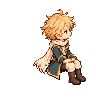
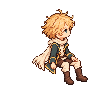
art: relax Prince Q1 seated posture

Changed region(s): [[0.3125, 0.09, 0.9375, 0.87]]

diff --git a/Production/Validation/review-prince-seated.html b/Production/Validation/review-prince-seated.html
@@ -1,0 +1,24 @@
+<!doctype html>
+<html lang="en"><meta charset="utf-8"><meta name="viewport" content="width=device-width,initial-scale=1">
+<title>Little Prince — seated pose correction</title>
+<style>
+body{margin:0;background:#191d20;color:#e6ded0;font:16px/1.6 system-ui,sans-serif}main{max-width:1200px;margin:auto;padding:32px}h1{font-size:26px}h2{font-size:19px}p{max-width:850px;color:#c9c3b8}section{display:grid;grid-template-columns:1fr 1fr;gap:24px}figure{margin:0;padding:20px;background:#292b2b;border-radius:8px}figcaption{margin-bottom:12px}img{max-width:100%;height:auto}.sprite{width:384px;image-rendering:pixelated;display:block;margin:auto}.native{display:block;width:100%}a{color:#dfc78e}.note{font-size:14px}@media(max-width:650px){section{grid-template-columns:1fr}}
+</style><main>
+<h1>Little Prince — seated pose correction</h1>
+<p>Quiet, thoughtful stool-perch: separate relaxed hands, a small stagger between knees and boots, and a less rigid shoulder line. Same character, costume and side-quarter direction.</p>
+<p class="note">Only the Q1 seated texture changes. Camera, character scale, stool, contact anchors, counter geometry and ACT 1 logic are retained. Final pose feel remains for owner review.</p>
+<section>
+<figure><figcaption>Before · original production sprite</figcaption><img class="sprite" src="../SourceArt/PrinceSeatedCorrection/Before.png" alt="Previous seated Prince with close knees and hands together"></figure>
+<figure><figcaption>After · corrected production sprite</figcaption><img class="sprite" src="../Unity/Assets/Surlhwa/Q1Polish/PrinceSideQuarter.png" alt="Prince seated with separate hands and staggered boots"></figure>
+</section>
+<p class="note">Sprites above are displayed at 4× with nearest-neighbor scaling. Both have the original 96×100 transparent frame and 76-pixel silhouette height.</p>
+<h2>Native Q1 grounding view · same camera and stool</h2>
+<section>
+<figure><figcaption>Before · retained Q1 evidence</figcaption><a href="Evidence/q1-final-prince-04/Q1_Prince_Grounding_1920.png"><img class="native" src="Evidence/q1-final-prince-04/Q1_Prince_Grounding_1920.png" alt="Previous Q1 seated pose at stool"></a></figure>
+<figure><figcaption>After · rebuilt Player</figcaption><a href="Evidence/q1-prince-seated-correction/Q1_Prince_Grounding_1920.png"><img class="native" src="Evidence/q1-prince-seated-correction/Q1_Prince_Grounding_1920.png" alt="Corrected Q1 seated pose at same stool"></a></figure>
+</section>
+<h2>Normal Q1 composition</h2>
+<a href="Evidence/q1-prince-seated-correction/Q1_Prince_Composition_1920.png"><img class="native" src="Evidence/q1-prince-seated-correction/Q1_Prince_Composition_1920.png" alt="Prince and bartender in the unchanged Q1 bar composition"></a>
+<p class="note">Native Player captures at 720p and 1080p were inspected. Unity build: zero errors/warnings. Existing Q1 tests: 7/7. Bounded Prince service/save/Continue checks: 16 passed. Click a native render to inspect the full-resolution image. This is pose review, not a new ACT 1 sign-off.</p>
+<p><a href="PRINCE_SEATED_CORRECTION.md">Validation and review notes</a> · <a href="../SourceArt/PrinceSeatedCorrection/PROVENANCE.md">Source and exact generation prompt</a></p>
+</main></html>

diff --git a/Production/Tools/prepare_prince_seated_correction.py b/Production/Tools/prepare_prince_seated_correction.py
@@ -1,0 +1,29 @@
+"""Import the owner-requested pose using the existing Q1 normalization contract."""
+from pathlib import Path
+from PIL import Image
+import hashlib
+import json
+
+ROOT = Path(__file__).resolve().parents[1]
+SOURCE = ROOT / 'SourceArt/PrinceSeatedCorrection'
+source = SOURCE / 'PrinceSeatedSource.png'
+target = ROOT / 'Unity/Assets/Surlhwa/Q1Polish/PrinceSideQuarter.png'
+im = Image.open(source).convert('RGBA')
+bounds = im.getchannel('A').point(lambda a: 255 if a > 128 else 0).getbbox()
+crop = im.crop(bounds)
+width = round(crop.width * 76 / crop.height)
+normalized = crop.resize((width, 76), Image.Resampling.NEAREST)
+frame = Image.new('RGBA', (96, 100))
+position = (round(59.5 - width / 2), 9)
+frame.paste(normalized, position)
+frame.save(target)
+(SOURCE / 'import.json').write_text(json.dumps(dict(
+    classification='PRINCE_SEATED_POSE_OWNER_REVIEW',
+    source=source.relative_to(ROOT).as_posix(),
+    sourceSha256=hashlib.sha256(source.read_bytes()).hexdigest(),
+    alphaBounds=bounds, normalizedSize=normalized.size, pasteAt=position,
+    target=target.relative_to(ROOT).as_posix(),
+    sha256=hashlib.sha256(target.read_bytes()).hexdigest(),
+    method='Existing Q1 alpha crop and nearest-neighbor import; 76px height, 96x100 canvas, same center and bottom. No scene or mesh changes.'
+), indent=2) + '\n', encoding='utf-8')
+print('Prince seated correction imported:', normalized.size, position)

diff --git a/Production/Validation/PRINCE_SEATED_CORRECTION.md b/Production/Validation/PRINCE_SEATED_CORRECTION.md
@@ -1,0 +1,57 @@
+# Little Prince seated pose correction — 2026-10-27
+
+Status: **TECHNICAL_CHECKS_PASS / HUMAN_SIGNOFF_REQUIRED**.
+
+[Before/after review](review-prince-seated.html). Bounded owner feedback: the
+previous seated Prince read too prim, with close knees/boots and folded hands.
+The revised sprite separates the hands (one on the thigh, one beside the hip),
+staggers the knees/boots modestly and relaxes the shoulder line. Identity, costume,
+youthful quiet expression and screen-right quarter-facing style remain the target.
+Final naturalness and emotional reading require owner approval.
+
+## Scope and preservation
+
+Only runtime asset changed: `Unity/Assets/Surlhwa/Q1Polish/PrinceSideQuarter.png`.
+The existing Q1 material consumes it with the same GUID and importer settings.
+96×100 transparent canvas, 76px opaque silhouette height, top/bottom alignment and
+normalization center are retained. Width changes from 53px to 56px for the relaxed
+posture. Original source, sprite copy and historical evidence are retained.
+
+No C# gameplay/presentation logic, scene, prefab, mesh, material, camera, scale,
+stool, contact anchor, counter geometry, standing/walking frame, focused-view art,
+ACT 1 content, save identity or progression changes. User's pre-existing edit in
+`review-slice.html` is excluded. The active Q1 Player was rebuilt; historical
+Players/evidence remain unchanged.
+
+## Validation
+
+- Unity 6000.3.7f1 Q1 build succeeded: **0 errors, 0 warnings**.
+- Existing `Surlhwa.SpatialTests.Q1ProductionTests`: **7/7 passed**, including
+  camera/scale/contact anchors and depth-writing seated material.
+- Actual rebuilt Q1 Player, isolated earned Prince checkpoint: **16 checks
+  passed, zero errors**, exit 0. Covers selected Prince, bindings, Codex state,
+  focused preparation/service, return to Q1, served liquid, save reload and Continue.
+- Native 720p/1080p seated/composition/grounding captures were inspected. Same
+  camera, character mesh viewport and bar viewport values as retained Q1 captures.
+  The corrected pose stays at the existing stool with readable separated hands and
+  boots. This visual inspection is not owner aesthetic acceptance.
+- Source/Player inventory was identical before and after capture (1,271 files).
+  Import rerun is byte-reproducible. Runtime tracked diff contains only the PNG;
+  no scene/prefab serialization churn. `git diff --check` passed.
+
+First sandboxed Unity attempt failed during local Package Manager IPC startup
+before tests. The authorized unrestricted retry passed; no outstanding validation
+debt from that attempt. This texture-only phase did not rerun campaign-wide QA.
+There is no generated `Assembly-CSharp-Editor.csproj` in this active project;
+successful native Unity compilation/build supplies compile evidence.
+
+Evidence: `Evidence/prince-seated-correction-tests-retry.xml`,
+`Evidence/prince-seated-correction-build.log`,
+`Evidence/q1-prince-seated-correction/` and the tracked
+[validation manifest](Manifests/prince-seated-correction-validation.json).
+Native evidence/Players remain local ignored artifacts under repository policy.
+
+Source and exact built-in imagegen prompt:
+[provenance](../SourceArt/PrinceSeatedCorrection/PROVENANCE.md).
+Reproduce import with `python Production/Tools/prepare_prince_seated_correction.py`.
+The original `prepare_q1_art.py` remains a historical import of the prior pose.

diff --git a/Production/SourceArt/PrinceSeatedCorrection/PROVENANCE.md b/Production/SourceArt/PrinceSeatedCorrection/PROVENANCE.md
@@ -1,0 +1,24 @@
+# Prince seated pose correction — 2026-10-27
+
+Owner-requested bounded correction of the Q1 bartender-facing seated texture.
+Built-in imagegen edit of `../Q1Polish/PrinceSideQuarterSource.png`; original
+generated output is `PrinceSeatedSource.png`. `Before.png` preserves the previous
+production sprite. The original Q1 source, import record and review evidence remain
+historical and unchanged.
+
+Intent: natural quiet stool-perch, separate relaxed hands, subtly asymmetrical
+knees/boots and less rigid shoulders. Preserve youthful contemplative identity,
+costume, side-quarter facing and restrained silhouette; no exaggerated stance.
+
+Import: `python Production/Tools/prepare_prince_seated_correction.py` reproduces
+the existing Q1 normalization (alpha crop, nearest-neighbor resize to 76px high,
+96×100 transparent frame, same horizontal center and bottom). No mesh, material,
+texture GUID/import settings, scene, camera, stool, root, contact anchor or ACT 1
+logic is changed. `import.json` records exact source/target hashes and geometry.
+
+Final visual approval remains HUMAN_SIGNOFF_REQUIRED. Native render evidence and
+validation limits are documented in `../../Validation/PRINCE_SEATED_CORRECTION.md`.
+
+## Exact built-in imagegen prompt
+
+Use case: precise-object-edit. Edit the attached transparent Little Prince seated sprite ONLY to correct his seated posture. This is the exact identity/style/costume authority. Preserve golden tousled hair, face and eye, cream scarf, dark muted teal gold-edged coat, brown shorts and boots, chibi proportions, warm pixel-art cluster style, overall figure height and head size. Preserve screen-right side-quarter bartender-facing orientation and mildly elevated Q1 camera view. Change the stiff prim symmetrical sitting pose to a natural quiet stool-perch: relaxed slightly uneven shoulders, torso leaning subtly toward bartender on screen right, slight natural curvature rather than bolt-upright posture. Knees not pressed together: modest separation and slight asymmetry, one knee and boot a little forward/right, the other lower and closer beneath the hip, no wide-legged stance. Hands must NOT touch or fold: one relaxed open hand rests on its own thigh toward the knee, the other hangs relaxed beside the near hip at implied stool edge. Keep seat-contact hip location and lowest boot height approximately as reference; maintain compact readable silhouette without enlarging character. Quiet, thoughtful, youthful, slightly tired/contemplative; no macho stance, no exaggerated slouch, no smile, no coy gestures. Render just ONE full character with transparent background and generous margins, no stool, no counter, no shadow, no props, no text, no additional frames. Change only body posture; keep existing identity and costume. Strong pixel clusters must remain readable when normalized to 76 pixels silhouette height.

diff --git a/Docs/13_POST_I16_PRODUCTION_GAP_AUDIT.md b/Docs/13_POST_I16_PRODUCTION_GAP_AUDIT.md
@@ -2923,3 +2923,28 @@ Result: GATE2_Q1_ACT1_READY_FOR_OWNER_REVIEW.
 Review: [Q1 ACT 1 Gate 2](../Production/Validation/review-gate2-q1.html),
 [technical report](../Production/Validation/GATE2_Q1_REVIEW.md),
 [validation](../Production/Validation/Manifests/gate2-q1-validation.json).
+
+## Owner Prince seated-pose correction - 2026-10-27
+
+Bounded feedback supersedes only the prior Q1 seated pose's posture, not the
+approved camera/spatial direction. The Prince now has separate relaxed hands,
+modestly staggered knees/boots and a less rigid shoulder line. His identity,
+costume, youthful contemplative intent and bartender-facing quarter style remain.
+Only the existing Q1 seated PNG changes at runtime; original art/evidence is
+retained. Reproducible import preserves the 96x100 canvas, 76px silhouette height,
+top/bottom alignment and normalization center. No scene, prefab, mesh, material,
+camera, scale, stool, contact anchor, counter or ACT 1 logic changes.
+
+Validation: Unity 6000.3.7f1 build succeeded with zero errors/warnings; existing
+Q1 tests 7/7; rebuilt Player bounded Prince service/save/Continue run passed all
+16 checks with zero errors. Native 720p/1080p images were inspected; 12 matching
+captures retain exact camera, character mesh viewport and bar viewport values.
+Source/Player inventory remained unchanged during capture; import is reproducible;
+serialized scope and diff checks are clean. Initial sandbox Package Manager IPC
+failure was resolved by an unrestricted retry; no runtime debt remains for this
+bounded correction. Earlier campaign-wide validation limits are not superseded.
+
+HUMAN_SIGNOFF_REQUIRED: final pose naturalness and emotional reading. No further
+character, presentation or campaign scope is implied.
+Review: [Prince seated before/after](../Production/Validation/review-prince-seated.html),
+[validation notes](../Production/Validation/PRINCE_SEATED_CORRECTION.md).
